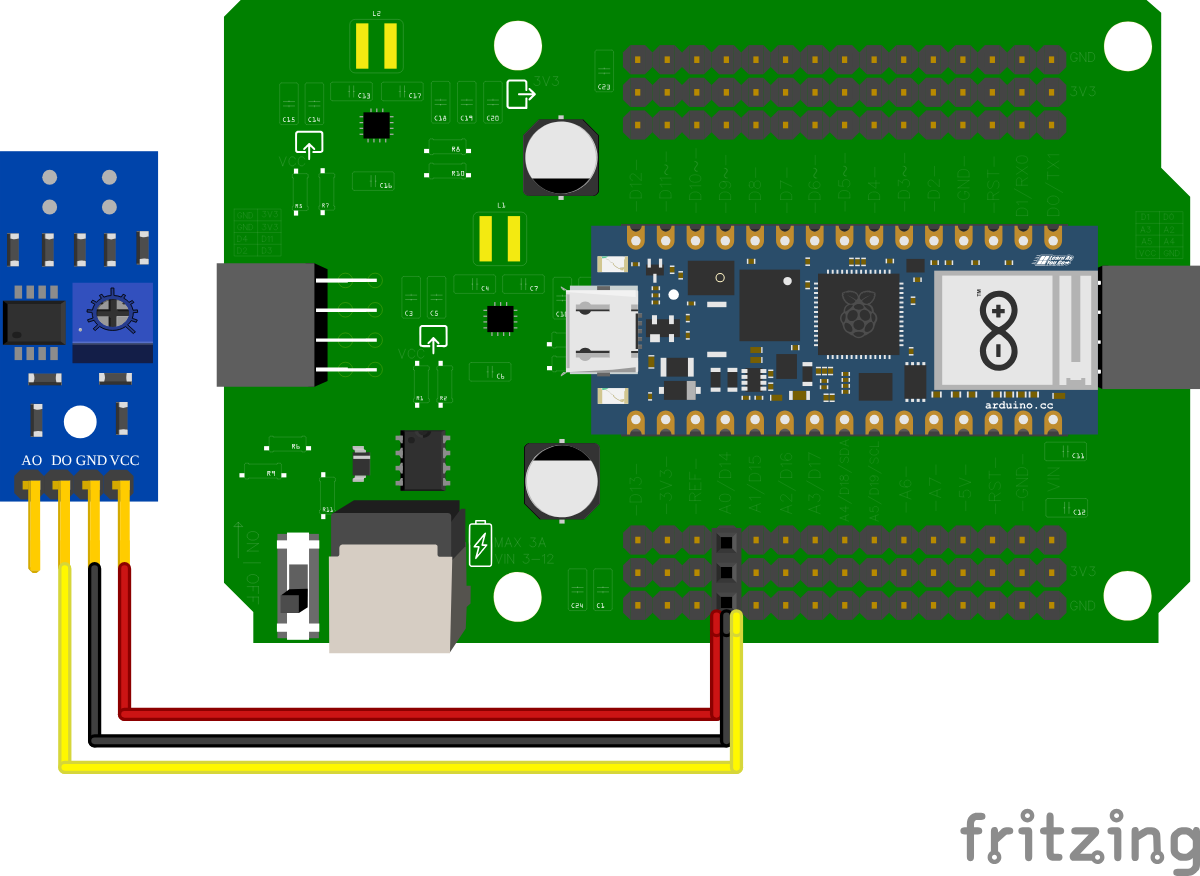
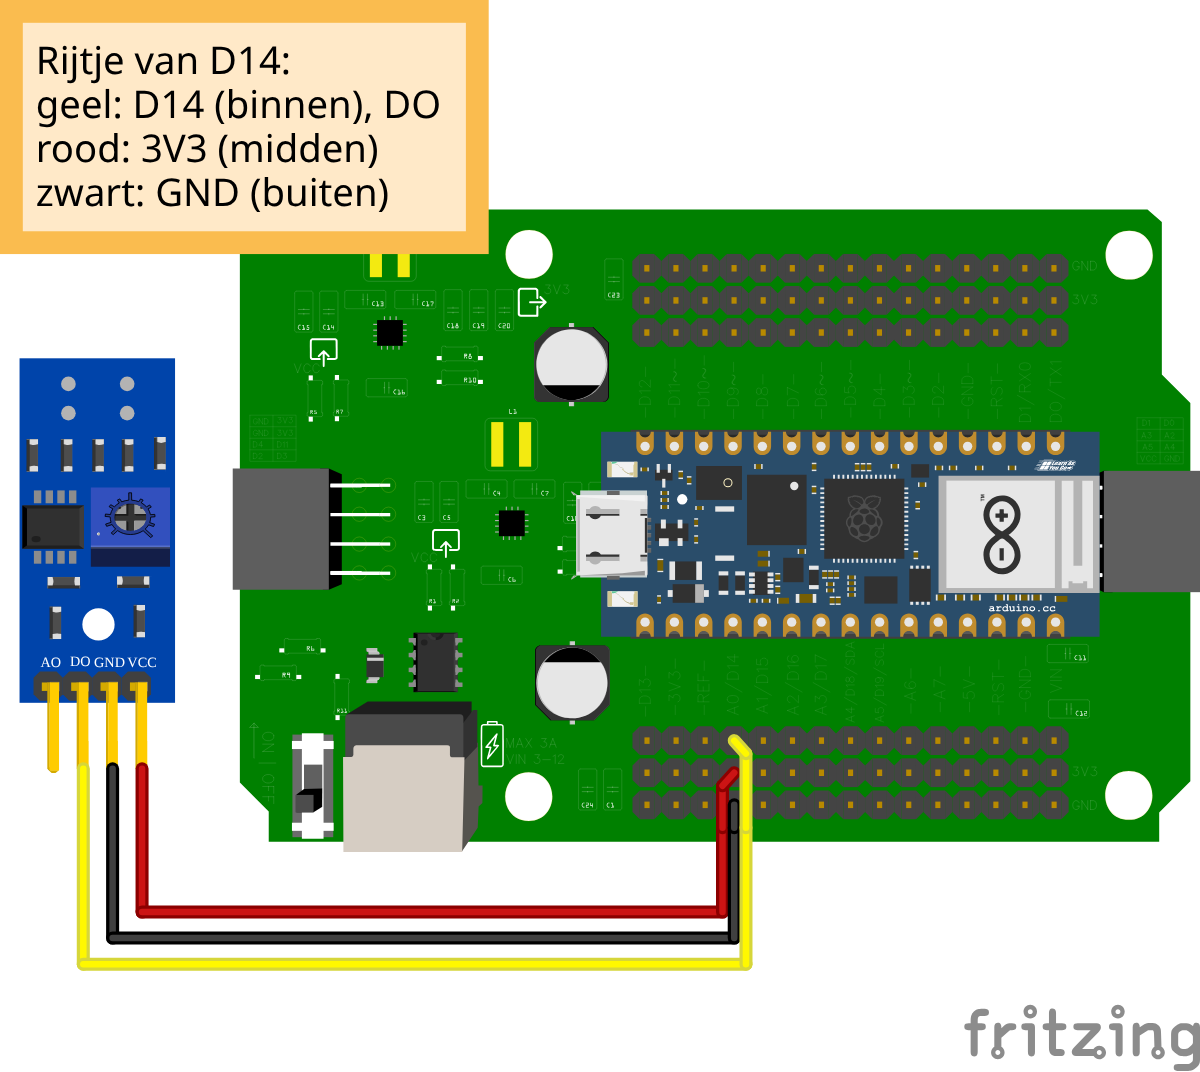
Robotica: elke draad eindigt zichtbaar op zijn pin, met een legenda
Met een stekker op het rijtje zag de leerling niet welke draad op welke pin
uitkwam: Fritzing tekent een draad altijd boven een onderdeel, dus de stekker
verborg de draden. Nu loopt elke draad in een eigen baan over het rijtje en
eindigt hij precies op zijn pin: GND door het midden naar de buitenste pin,
3V3 en het signaal ernaast, langs de pinnen ervoor, en vlak voor hun eigen
pin naar het midden. Elk schema heeft een legenda met kleur en pin. Alleen de
servo houdt zijn stekker, want zijn kabel eindigt echt in een stekker; ook
die heeft een legenda.

Claude-Session: https://claude.ai/code/session_01AmMyeALxEdtqFWgowZCVkR

diff --git a/sites/informatica/robotica/CLAUDE.md b/sites/informatica/robotica/CLAUDE.md
@@ -15,7 +15,7 @@ Dit is een project waarin leerlingen zelf via een Arduino Nano RP2040 Connect se
 - **De site heeft vier ingangen**, elk in de navbar en als kaart op de homepage: de **Lego-auto** (`lego_auto/`, de leerroute in Python), de **Golfbot** (`golfbot/`, groep 7/8, blokken), **Onderdelen** (`docs/onderdelen/`, naslag) en **RoboCup Junior** (`docs/robocup/`, de wedstrijd Redden Basis). Editor, Cheatsheet, Er gaat iets mis en Robot checken staan onder **Hulp**. Tot november 2026 was de naslag één "Bibliotheek" onder `docs/Microcontrollers/Arduino Nano RP2040 Connect/`, met 44 pagina's in 16 categorieën die allemaal "Tutorial - …" heetten, spaties in de adressen en een sidebar die niemand opende; RoboCup zat daarnaast onder `Competities/RoboCup-Junior/Redden-Basis`. Elk oud adres stuurt door via `omleidingen` in `docusaurus.config.ts`, naar de sectie die het overnam, en `src/lego-tests/onderdelen.test.ts` eist dat voor de hele oude lijst.
 - **De code volgt de leaphymicropython die de online editor installeert** (main van `leaphy-robotics/leaphy-micropython`), niet een oudere. Een pin is een **naam als tekst** (`"D6"`, `"A0"`, `'LED'`): sinds augustus 2025 geeft de bibliotheek hem direct door aan `Pin()`, en een getal is daar het GPIO-nummer van de chip (`6` is het ingebouwde lampje, `9` tot `11` zitten aan de wifi-chip). `read_line_sensor` bestaat sinds mei 2025 niet meer; een digitale IR-sensor lees je met `Pin("D14", Pin.IN)`. `set_buzzer` weigert een toon boven 255 Hz, dus de buzzer gebruikt `PWM` uit `machine`. D18 tot en met D21 (A4 tot en met A7) lopen in MicroPython via de wifi-chip; een ultrasone sensor zit daarom op gewone D-pinnen (`read_distance("D7", "D8")`). `src/lego-tests/leaphy-api.test.ts` toetst elk python-blok in `docs/`, `lego_auto/` en `src/pages/` tegen `src/lego-tests/leaphy-api.json` (de modules en namen van de bibliotheek en de pinnen uit de `pins.csv` van MicroPython): elke import bestaat, elke pin is een naam die het bord kent, `read_distance` op een pin van de chip zelf, geen `set_buzzer` boven 255 Hz, en geen zwarte tekst na `fill("black")` op het OLED-scherm (`text()` is standaard zwart). Komt er een nieuwe versie van de bibliotheek, maak het JSON-bestand dan opnieuw met `scripts/leaphy-api.py` (de stappen staan bovenin dat script) en kijk wat de test zegt.
 - **RoboCup Junior** (`docs/robocup/`) gaat over Redden Basis, de liga voor beginners, en niet over Redden: elke bewering over de baan volgt de spelregels in `static/docs/RoboCupJuniorReddenBasis2025_rev1.pdf`. In november 2026 bleek dat de pagina's de regels van Redden volgden (een aluminiumrand om de zone waar een muur staat, een eindpunt dat je met de tape zou vinden terwijl het een zwarte driehoek is, zwarte ballen terwijl er alleen zilveren geleidende zijn) en dat de gaten en drempels ontbraken die punten opleveren. Nu: één startpagina met de spelregels in het kort en de punten, de materiaallijst, en per uitdaging een pagina in de volgorde van de baan, elk met een "Door naar"-link als laatste regel. De TOF op de multiplexer is de standaard afstandssensor: de code bij de ultrasone sensor gebruikt pin 18 en 19, en dat zijn A4 en A5 van I2C. `src/lego-tests/robocup.test.ts` bewaakt de volgorde, de links, een pagina per hindernis met punten, die feiten uit de spelregels, geen `read_distance` in de RoboCup-pagina's, en in de hele site dat een opsomming van de pinnen van het motor shield D2, D3, D4 en D11 is.
-- **Aansluitschema's staan op het shield**, niet los op de Nano (november 2026). In de les zit de Nano op het Leaphy Murphy Shield, met per pin een rijtje van drie: de pin zelf (binnen, naast de Nano), 3V3 (midden) en GND (buiten); de zes lessen LED, afstandssensor, digitale IR-sensor, servo, buzzer en RGB-LED leggen dat uit met de gedeelde alinea `docs/onderdelen/_delen/shield/rijen.md` (`<ShieldRijen />`). De schema's zijn gemaakt in Fritzing 1.0.8 en staan als bron in `static/fritzing/shield_*.fzz`, met de export ernaast als `shield_*_bb.png`. Een onderdeel krijgt zijn signaal, 3V3 en GND op één rijtje, met een stekker van drie pinnen erop (de Dagu-stekker uit fritzing-parts, rechtop gezet), zoals de servo op D6; de draden eindigen aan de rand van de stekker, want Fritzing tekent een draad altijd boven een onderdeel, en draden die over elkaar heen naar hun pin liepen, waren niet te volgen. Een tweede signaalpin (Trig, en G en B van de RGB-LED) krijgt een losse draad naar de binnenste rij van zijn pin. Eerst gingen 3V3 en GND naar het rijtje van een buurpin; de opdrachtgever wil één rijtje per onderdeel. De RCWL-1601, de buzzer en de RGB-LED-module zijn eigen onderdelen in de .fzz (de RCWL is het HC-SR04 uit fritzing-parts, groen en met een andere naam). De RGB-LED zit op D10, D9 en D6 en niet meer op D9, D10 en D12: alleen in die volgorde kruist geen draad een andere. Fritzing laat bij een export een onderdeel weg waarvan de breadboard-SVG geen `<g id="breadboard">` heeft; zo ontbraken de USB-kabel in `nano_rp2040_verbinden.fzz` en het shield in de export, en daarom hebben die in de .fzz-bestanden zo'n laag gekregen. `src/lego-tests/schemas.test.ts` leest de .fzz en eist dat de pinnen op het shield precies de pinnen uit de code van de les zijn (plus GND, en 3V3 bij de sensoren en de servo), dat 3V3 en GND op het rijtje van een signaalpin van het onderdeel zitten, dat Aansluiten het schema toont en die pinnen noemt, dat het LED-schema een weerstand van 220 Ω heeft, en dat geen sensor of actuator nog een `nano_rp2040_`-plaatje heeft.
+- **Aansluitschema's staan op het shield**, niet los op de Nano (november 2026). In de les zit de Nano op het Leaphy Murphy Shield, met per pin een rijtje van drie: de pin zelf (binnen, naast de Nano), 3V3 (midden) en GND (buiten); de zes lessen LED, afstandssensor, digitale IR-sensor, servo, buzzer en RGB-LED leggen dat uit met de gedeelde alinea `docs/onderdelen/_delen/shield/rijen.md` (`<ShieldRijen />`). De schema's zijn gemaakt in Fritzing 1.0.8 en staan als bron in `static/fritzing/shield_*.fzz`, met de export ernaast als `shield_*_bb.png`. Een onderdeel krijgt zijn signaal, 3V3 en GND op één rijtje. In het schema loopt elke draad in een eigen baan over dat rijtje en eindigt hij precies op zijn pin: GND door het midden naar de buitenste pin, 3V3 en het signaal links of rechts ernaast, langs de pinnen ervoor, en vlak voor hun eigen pin naar het midden. Een legenda in het schema zegt welke kleur op welke pin komt: de leerling moet precies zien waar wat moet. Een stekker van drie op het rijtje verborg dat (Fritzing tekent een draad altijd boven een onderdeel); alleen de servo heeft er een, want zijn kabel eindigt echt in een stekker (de Dagu-stekker uit fritzing-parts, rechtop gezet). Een tweede signaalpin (Trig, en G en B van de RGB-LED) krijgt een losse draad naar de binnenste rij van zijn pin. Eerst gingen 3V3 en GND naar het rijtje van een buurpin; de opdrachtgever wil één rijtje per onderdeel. De RCWL-1601, de buzzer en de RGB-LED-module zijn eigen onderdelen in de .fzz (de RCWL is het HC-SR04 uit fritzing-parts, groen en met een andere naam). De RGB-LED zit op D10, D9 en D6 en niet meer op D9, D10 en D12: alleen in die volgorde kruist geen draad een andere. Fritzing laat bij een export een onderdeel weg waarvan de breadboard-SVG geen `<g id="breadboard">` heeft; zo ontbraken de USB-kabel in `nano_rp2040_verbinden.fzz` en het shield in de export, en daarom hebben die in de .fzz-bestanden zo'n laag gekregen. `src/lego-tests/schemas.test.ts` leest de .fzz en eist dat de pinnen op het shield precies de pinnen uit de code van de les zijn (plus GND, en 3V3 bij de sensoren en de servo), dat 3V3 en GND op het rijtje van een signaalpin van het onderdeel zitten, dat Aansluiten het schema toont en die pinnen noemt, dat het LED-schema een weerstand van 220 Ω heeft, en dat geen sensor of actuator nog een `nano_rp2040_`-plaatje heeft.
 - **Onderdelen versus lego_auto** — twee rollen, twee stijlen:
   - **Onderdelen** (`docs/onderdelen/`) is naslag: complete, vlot uit te voeren scripts die je kunt kopiëren. Eén pagina per onderdeel of handeling, met `## Materiaal`, `## Aansluiten`, `## Code` en waar nodig `## Er gaat iets mis`, en een `description` in de frontmatter. De overzichtspagina (`docs/onderdelen/index.mdx` met `src/components/OnderdelenOverzicht`) leest de groepen en de pagina's uit `onderdelenSidebar`, en de kaart van een pagina uit `sidebar_custom_props` in zijn frontmatter: `kort` (één regel; de description was drie tot vijf regels per kaart), `foto` (een pad onder `docs/onderdelen/img/`, zodat je herkent wat er op tafel ligt), `aansluiting` (digitale pin, I2C, …) en `hulp`. Aan de slag heeft in `sidebars.ts` `customProps: { weergave: 'stappen' }` en wordt een genummerde rij, met Er gaat iets mis (`hulp: true`) als losse regel eronder. Geen DocCardList, want die zet een emoji voor elke titel. `onderdelen.test.ts` eist `kort` bij elke pagina, een foto die bestaat bij elke kaart en een `aansluiting` bij elke sensor en actuator. De groepen in `sidebars.ts` zijn Aan de slag, Sensoren, Actuatoren en Op de robot; een nieuw onderdeel krijgt een plek in een groep, en de test eist dat elke pagina in de map ook in de sidebar staat. Wat lego_auto uit een onderdeel importeert, staat als partial in `docs/onderdelen/_delen/<onderdeel>/` (een map met `_` wordt geen pagina), en zowel de onderdeelpagina als de lego_auto-pagina importeren hem met `@site/docs/onderdelen/_delen/…`: één bron. Eén uitzondering op de naslagstijl: `ingebouwd-lampje` (en `led`) zijn de instap voor wie nog nooit code schreef en bouwen het programma regel voor regel op, met `<Voorkennis>`-links naar de python-cursus.
   - Het **lego_auto**-traject is opbouwend: één groeiend robotscript ("Het robotscript bouwen — Deel N") waarin elke les één of twee nieuwe concepten of regels toevoegt, en dat uitmondt in de lijnvolger. Gebruik nooit een import-stub voor een pagina met python-code; stubs zijn alleen voor hardware- en instructiepagina's zonder code.

diff --git a/sites/informatica/robotica/docs/onderdelen/_delen/shield/rijen.md b/sites/informatica/robotica/docs/onderdelen/_delen/shield/rijen.md
@@ -2,4 +2,4 @@ Op het shield heeft elke pin van de Nano een eigen rijtje van drie pinnen. De
 binnenste, naast de Nano, is de pin zelf (bijvoorbeeld D7). De middelste is
 **3V3** en de buitenste is **GND**. Sluit een onderdeel aan op het rijtje van
 zijn pin: dan zitten signaal, 3V3 en GND naast elkaar, en past er een stekker
-van drie pinnen op.
+van drie pinnen op. In het schema zegt de legenda welke draad op welke pin komt.
